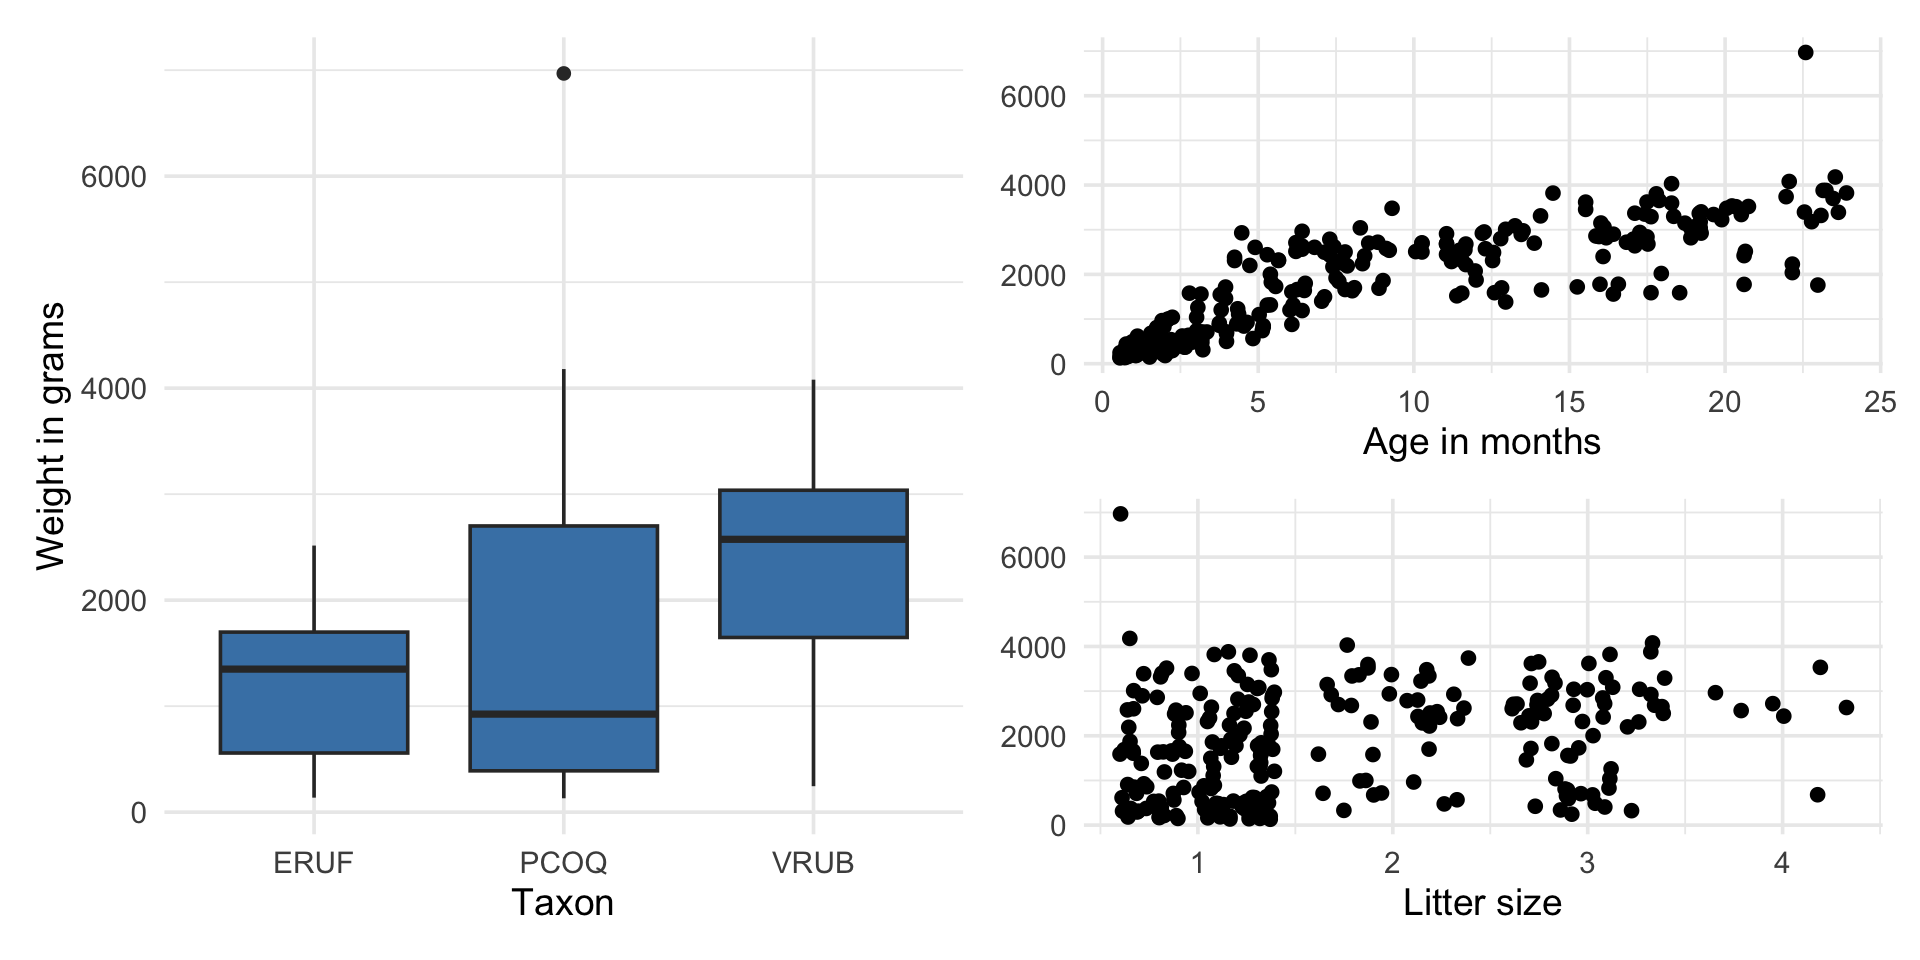
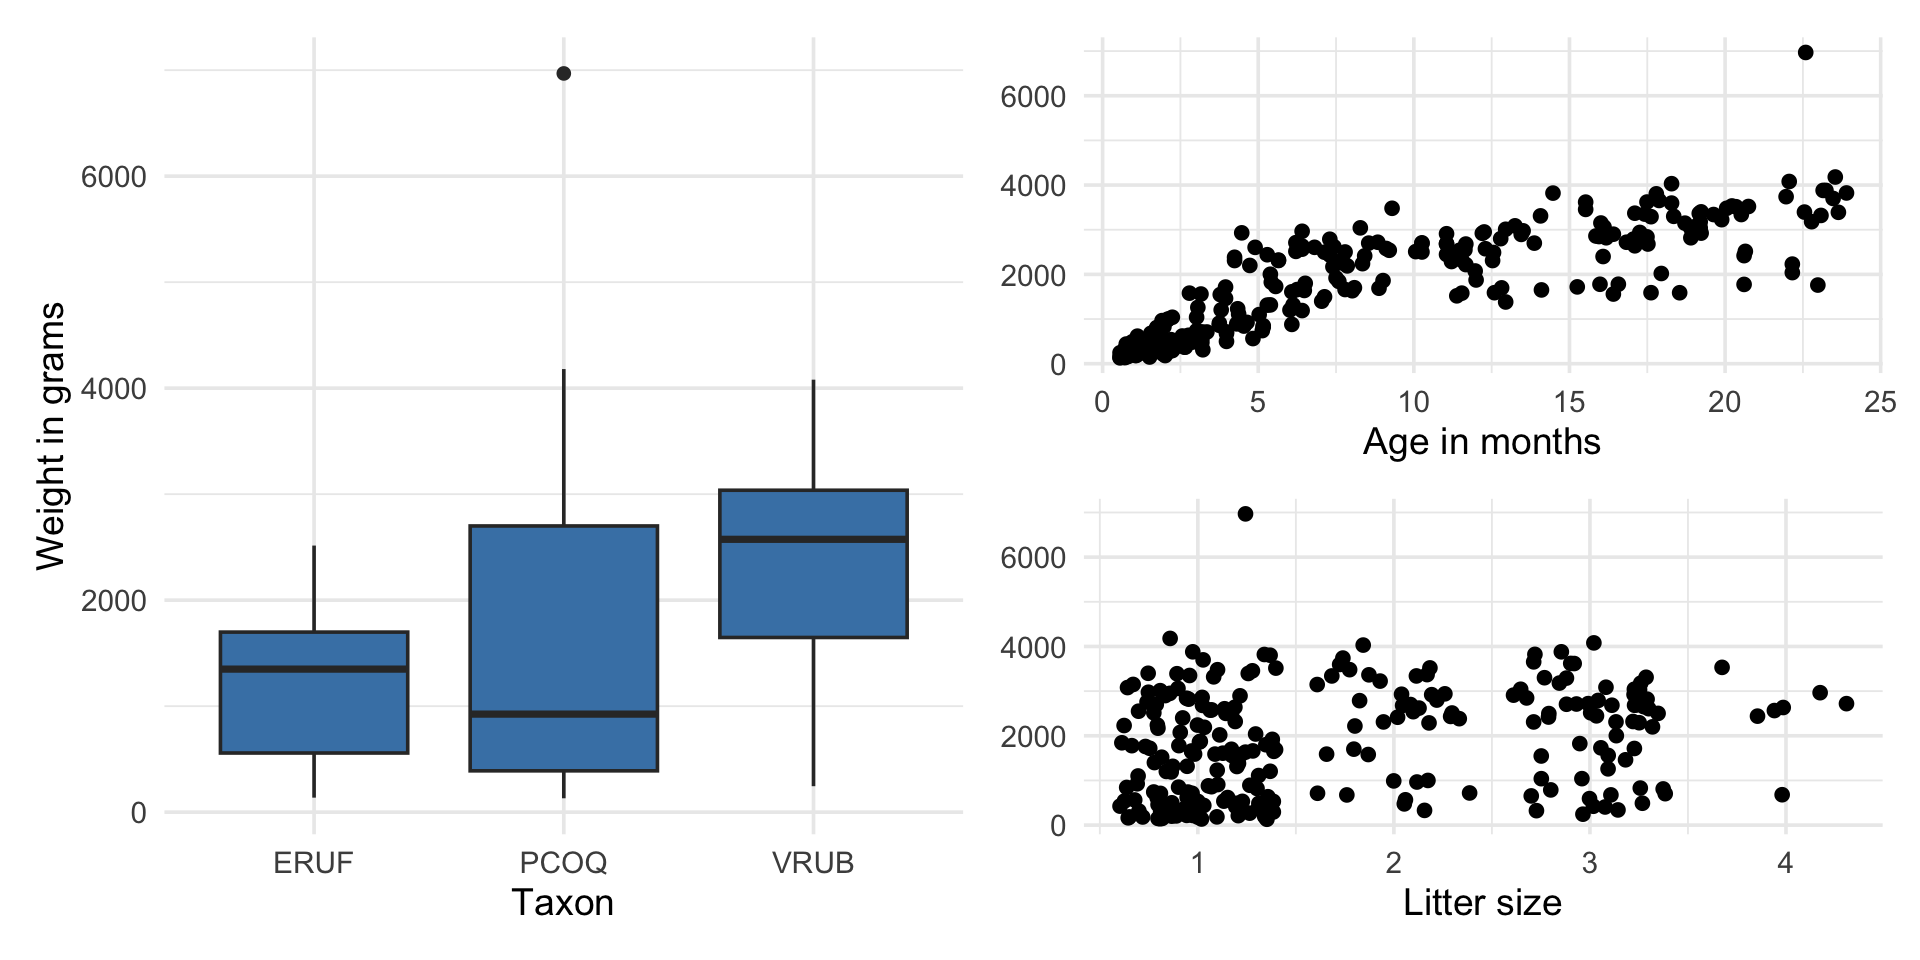
start tuesday slides.

Changed region(s): [[0.5625, 0.6562, 0.9688, 0.875], [0.9062, 0.8125, 0.9688, 0.8438], [0.9062, 0.875, 0.9375, 0.9062]]

diff --git a/docs/slides/07-predictor-types-contd.html b/docs/slides/07-predictor-types-contd.html
@@ -360,6 +360,11 @@ Shane Rybacki
 </ul>
 </div>
 </section>
+<section>
+<section id="interaction-effects" class="title-slide slide level1 center">
+<h1>Interaction effects</h1>
+
+</section>
 <section id="growth-rate-by-taxon" class="slide level2">
 <h2>Growth rate by taxon</h2>
 <div class="columns">
@@ -536,15 +541,103 @@ Shane Rybacki
 <li><p>interaction terms impact the model equation?</p></li>
 </ul>
 </div>
-</section>
-<section id="higher-order-terms" class="slide level2">
-<h2>Higher-order terms</h2>
-<p>We may consider</p>
+</section></section>
+<section>
+<section id="quadratic-effects" class="title-slide slide level1 center">
+<h1>Quadratic effects</h1>
 <ul>
-<li><p>do something with age sq.</p></li>
-<li><p>does thi smodel make sense in practice?</p></li>
+<li><p>Thus far, we have only considered models with first-order terms, in which the rate of change in the response is constant for all values of a predictor</p></li>
+<li><p>We may consider instances in which the rate of change differs by values of the predictor</p></li>
+<li><p>One way to account for this is by including a <strong>quadratic effect<em>.</em></strong></p>
+<ul>
+<li>Later in the semester, we will talk about other non-linear terms such as <span class="math inline">\(\log\)</span>.</li>
+</ul></li>
 </ul>
 </section>
+<section id="exploring-potential-quadratic-effect" class="slide level2">
+<h2>Exploring potential quadratic effect</h2>
+
+<img data-src="07-predictor-types-contd_files/figure-revealjs/unnamed-chunk-8-1.png" width="960" class="r-stretch"></section>
+<section id="add-textage2-to-the-model" class="slide level2">
+<h2>Add <span class="math inline">\(\text{age}^2\)</span> to the model</h2>
+<div class="cell">
+<div class="code-copy-outer-scaffold"><div class="sourceCode cell-code" id="cb5"><pre class="sourceCode numberSource r number-lines code-with-copy"><code class="sourceCode r"><span id="cb5-1"><a></a>lemur_fit_sq <span class="ot">&lt;-</span> <span class="fu">lm</span>(weight <span class="sc">~</span> age <span class="sc">+</span> <span class="fu">I</span>(age<span class="sc">^</span><span class="dv">2</span>) <span class="sc">+</span> taxon <span class="sc">+</span> litter_size,</span>
+<span id="cb5-2"><a></a>                    <span class="at">data =</span> lemurs)</span></code></pre></div><button title="Copy to Clipboard" class="code-copy-button"><i class="bi"></i></button></div>
+</div>
+<div class="cell">
+<div class="cell-output-display">
+<table class="caption-top">
+<thead>
+<tr class="header">
+<th style="text-align: left;" data-quarto-table-cell-role="th">term</th>
+<th style="text-align: right;" data-quarto-table-cell-role="th">estimate</th>
+<th style="text-align: right;" data-quarto-table-cell-role="th">std.error</th>
+<th style="text-align: right;" data-quarto-table-cell-role="th">statistic</th>
+<th style="text-align: right;" data-quarto-table-cell-role="th">p.value</th>
+</tr>
+</thead>
+<tbody>
+<tr class="odd">
+<td style="text-align: left;">(Intercept)</td>
+<td style="text-align: right;">-446.466</td>
+<td style="text-align: right;">119.823</td>
+<td style="text-align: right;">-3.726</td>
+<td style="text-align: right;">0.000</td>
+</tr>
+<tr class="even">
+<td style="text-align: left; background-color: rgba(220, 229, 178, 1) !important;">age</td>
+<td style="text-align: right; background-color: rgba(220, 229, 178, 1) !important;">268.050</td>
+<td style="text-align: right; background-color: rgba(220, 229, 178, 1) !important;">17.407</td>
+<td style="text-align: right; background-color: rgba(220, 229, 178, 1) !important;">15.399</td>
+<td style="text-align: right; background-color: rgba(220, 229, 178, 1) !important;">0.000</td>
+</tr>
+<tr class="odd">
+<td style="text-align: left; background-color: rgba(220, 229, 178, 1) !important;">I(age^2)</td>
+<td style="text-align: right; background-color: rgba(220, 229, 178, 1) !important;">-5.916</td>
+<td style="text-align: right; background-color: rgba(220, 229, 178, 1) !important;">0.764</td>
+<td style="text-align: right; background-color: rgba(220, 229, 178, 1) !important;">-7.747</td>
+<td style="text-align: right; background-color: rgba(220, 229, 178, 1) !important;">0.000</td>
+</tr>
+<tr class="even">
+<td style="text-align: left;">taxonPCOQ</td>
+<td style="text-align: right;">506.279</td>
+<td style="text-align: right;">85.796</td>
+<td style="text-align: right;">5.901</td>
+<td style="text-align: right;">0.000</td>
+</tr>
+<tr class="odd">
+<td style="text-align: left;">taxonVRUB</td>
+<td style="text-align: right;">943.648</td>
+<td style="text-align: right;">120.318</td>
+<td style="text-align: right;">7.843</td>
+<td style="text-align: right;">0.000</td>
+</tr>
+<tr class="even">
+<td style="text-align: left;">litter_size</td>
+<td style="text-align: right;">18.376</td>
+<td style="text-align: right;">59.225</td>
+<td style="text-align: right;">0.310</td>
+<td style="text-align: right;">0.757</td>
+</tr>
+</tbody>
+</table>
+</div>
+</div>
+</section>
+<section id="interpreting-age-in-quadratic-model" class="slide level2">
+<h2>Interpreting <code>age</code> in quadratic model</h2>
+<p><span class="math display">\[
+\hat{\beta}_\text{age} = 268.050 \hspace{10mm} \hat{\beta}_\text{age-sq} = -5.916
+\]</span></p>
+<ul>
+<li><strong>General interpretation</strong>: When age increases from <span class="math inline">\(a\)</span> to <span class="math inline">\(b\)</span>, the weight is expected to change by <span class="math inline">\(\hat{\beta}_\text{age}(b - a) + \hat{\beta}_\text{age-sq}(b^2 - a^2)\)</span> on average, holding all else constant.</li>
+<li>Expected change in weight:
+<ul>
+<li>1 month to 5 months: 930.216 (<code>268.050 * (5 - 1) + -5.916 * (5^2 - 1^2)</code>)</li>
+<li>20 to 24 months: 30.984 (<code>round(268.050 * (24 - 20) + -5.916 * (24^2 - 20^2)</code> )</li>
+</ul></li>
+</ul>
+</section></section>
 <section>
 <section id="model-comparison" class="title-slide slide level1 center">
 <h1>Model comparison</h1>
@@ -634,7 +727,7 @@ Shane Rybacki
 <li>Use the <code>glance()</code> function to get <span class="math inline">\(Adj. R^2\)</span> in R</li>
 </ul>
 <div class="cell">
-<div class="code-copy-outer-scaffold"><div class="sourceCode cell-code" id="cb5"><pre class="sourceCode numberSource r number-lines code-with-copy"><code class="sourceCode r"><span id="cb5-1"><a></a><span class="fu">glance</span>(lemur_fit)<span class="sc">$</span>adj.r.squared</span></code></pre></div><button title="Copy to Clipboard" class="code-copy-button"><i class="bi"></i></button></div>
+<div class="code-copy-outer-scaffold"><div class="sourceCode cell-code" id="cb6"><pre class="sourceCode numberSource r number-lines code-with-copy"><code class="sourceCode r"><span id="cb6-1"><a></a><span class="fu">glance</span>(lemur_fit)<span class="sc">$</span>adj.r.squared</span></code></pre></div><button title="Copy to Clipboard" class="code-copy-button"><i class="bi"></i></button></div>
 <div class="cell-output cell-output-stdout">
 <pre><code>[1] 0.7988424</code></pre>
 </div>
@@ -667,16 +760,16 @@ Shane Rybacki
 <p><strong>Model 1</strong></p>
 <p><strong>Model without interaction</strong></p>
 <div class="cell">
-<div class="code-copy-outer-scaffold"><div class="sourceCode cell-code" id="cb7"><pre class="sourceCode numberSource r number-lines code-with-copy"><code class="sourceCode r"><span id="cb7-1"><a></a><span class="co"># r-squared</span></span>
-<span id="cb7-2"><a></a><span class="fu">glance</span>(lemur_fit)<span class="sc">$</span>r.squared</span></code></pre></div><button title="Copy to Clipboard" class="code-copy-button"><i class="bi"></i></button></div>
+<div class="code-copy-outer-scaffold"><div class="sourceCode cell-code" id="cb8"><pre class="sourceCode numberSource r number-lines code-with-copy"><code class="sourceCode r"><span id="cb8-1"><a></a><span class="co"># r-squared</span></span>
+<span id="cb8-2"><a></a><span class="fu">glance</span>(lemur_fit)<span class="sc">$</span>r.squared</span></code></pre></div><button title="Copy to Clipboard" class="code-copy-button"><i class="bi"></i></button></div>
 <div class="cell-output cell-output-stdout">
 <pre><code>[1] 0.8020481</code></pre>
 </div>
 </div>
 <p><br></p>
 <div class="cell">
-<div class="code-copy-outer-scaffold"><div class="sourceCode cell-code" id="cb9"><pre class="sourceCode numberSource r number-lines code-with-copy"><code class="sourceCode r"><span id="cb9-1"><a></a><span class="co"># adj-r-squared</span></span>
-<span id="cb9-2"><a></a><span class="fu">glance</span>(lemur_fit)<span class="sc">$</span>adj.r.squared</span></code></pre></div><button title="Copy to Clipboard" class="code-copy-button"><i class="bi"></i></button></div>
+<div class="code-copy-outer-scaffold"><div class="sourceCode cell-code" id="cb10"><pre class="sourceCode numberSource r number-lines code-with-copy"><code class="sourceCode r"><span id="cb10-1"><a></a><span class="co"># adj-r-squared</span></span>
+<span id="cb10-2"><a></a><span class="fu">glance</span>(lemur_fit)<span class="sc">$</span>adj.r.squared</span></code></pre></div><button title="Copy to Clipboard" class="code-copy-button"><i class="bi"></i></button></div>
 <div class="cell-output cell-output-stdout">
 <pre><code>[1] 0.7988424</code></pre>
 </div>
@@ -685,16 +778,16 @@ Shane Rybacki
 <p><strong>Model 2</strong></p>
 <p><strong>Model with interaction</strong></p>
 <div class="cell">
-<div class="code-copy-outer-scaffold"><div class="sourceCode cell-code" id="cb11"><pre class="sourceCode numberSource r number-lines code-with-copy"><code class="sourceCode r"><span id="cb11-1"><a></a><span class="co"># r-squared</span></span>
-<span id="cb11-2"><a></a><span class="fu">glance</span>(lemur_fit_int)<span class="sc">$</span>r.squared</span></code></pre></div><button title="Copy to Clipboard" class="code-copy-button"><i class="bi"></i></button></div>
+<div class="code-copy-outer-scaffold"><div class="sourceCode cell-code" id="cb12"><pre class="sourceCode numberSource r number-lines code-with-copy"><code class="sourceCode r"><span id="cb12-1"><a></a><span class="co"># r-squared</span></span>
+<span id="cb12-2"><a></a><span class="fu">glance</span>(lemur_fit_int)<span class="sc">$</span>r.squared</span></code></pre></div><button title="Copy to Clipboard" class="code-copy-button"><i class="bi"></i></button></div>
 <div class="cell-output cell-output-stdout">
 <pre><code>[1] 0.8443483</code></pre>
 </div>
 </div>
 <p><br></p>
 <div class="cell">
-<div class="code-copy-outer-scaffold"><div class="sourceCode cell-code" id="cb13"><pre class="sourceCode numberSource r number-lines code-with-copy"><code class="sourceCode r"><span id="cb13-1"><a></a><span class="co"># adj-r-squared</span></span>
-<span id="cb13-2"><a></a><span class="fu">glance</span>(lemur_fit_int)<span class="sc">$</span>adj.r.squared</span></code></pre></div><button title="Copy to Clipboard" class="code-copy-button"><i class="bi"></i></button></div>
+<div class="code-copy-outer-scaffold"><div class="sourceCode cell-code" id="cb14"><pre class="sourceCode numberSource r number-lines code-with-copy"><code class="sourceCode r"><span id="cb14-1"><a></a><span class="co"># adj-r-squared</span></span>
+<span id="cb14-2"><a></a><span class="fu">glance</span>(lemur_fit_int)<span class="sc">$</span>adj.r.squared</span></code></pre></div><button title="Copy to Clipboard" class="code-copy-button"><i class="bi"></i></button></div>
 <div class="cell-output cell-output-stdout">
 <pre><code>[1] 0.8405364</code></pre>
 </div>

diff --git a/docs/slides/05-mlr.html b/docs/slides/05-mlr.html
@@ -799,8 +799,8 @@ y_n
 <li>Use <span class="math inline">\(R^2\)</span> when describing the relationship between the response and predictor variables</li>
 </ul>
 </section>
-<section id="comparing-interest-rate-models" class="slide level2">
-<h2>Comparing interest rate models</h2>
+<section id="comparing-models-2" class="slide level2">
+<h2>Comparing models</h2>
 <div class="columns">
 <div class="column" style="width:50%;">
 <p><strong>Model 1</strong></p>
